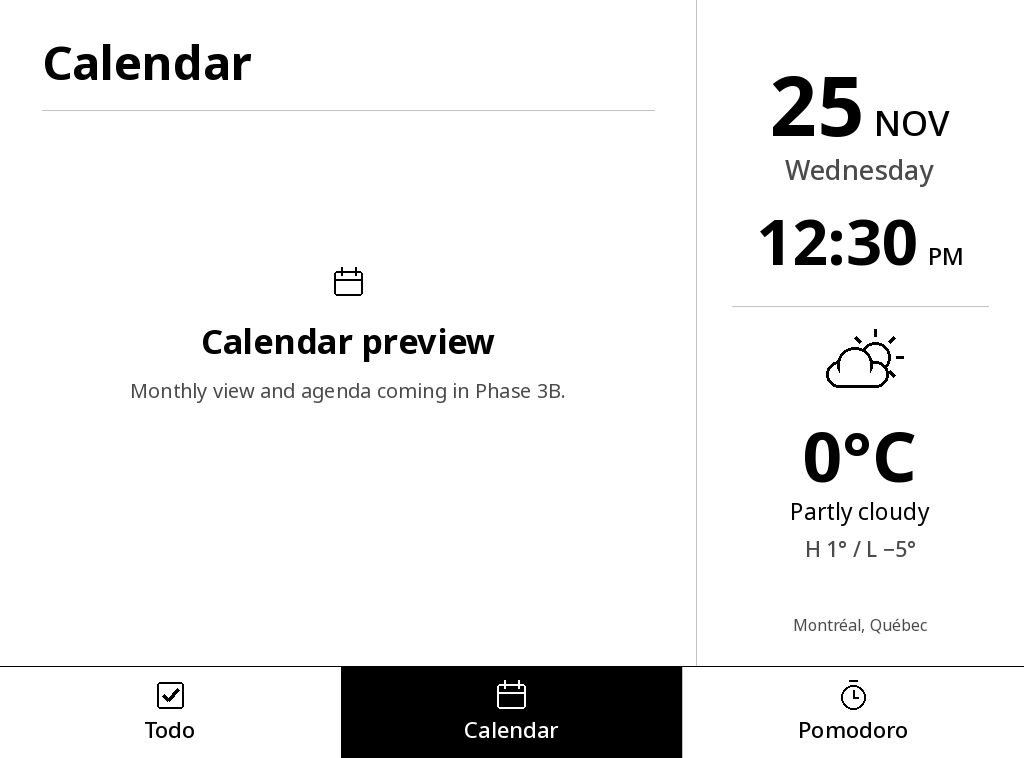
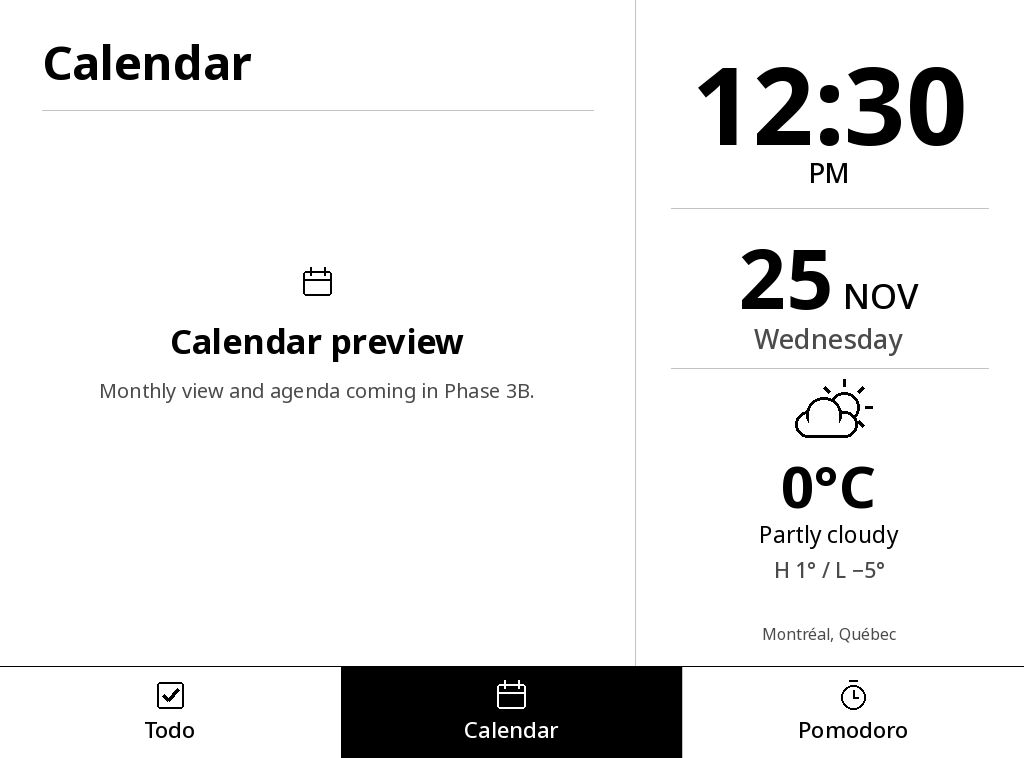
Give the landscape clock more space

diff --git a/backend/app/rendering/landscape.py b/backend/app/rendering/landscape.py
@@ -8,15 +8,15 @@ from PIL import Image, ImageDraw
 
 from app.rendering.dashboard import fit_line
 from app.rendering.landscape_layout import (
-    HEIGHT, LEFT, NAV_Y, NEXT, PANEL_X, PREVIOUS, RIGHT, TABS, TAB_LABELS, WIDTH,
-    Page, row_box, tab_box,
+    CLOCK_DIVIDER_Y, CLOCK_WIDTH, DATE_DIVIDER_Y, HEIGHT, LEFT, MAIN_CENTER, NAV_Y,
+    NEXT, PANEL_CENTER, PANEL_INSET, PANEL_TEXT_WIDTH, PANEL_X, PREVIOUS, RIGHT,
+    TABS, TAB_LABELS, TASK_TEXT_X, WEATHER_ICON_Y, WIDTH, Page, row_box, tab_box,
 )
 from app.rendering.typography import font
 from app.services.dashboard import TORONTO
 from app.services.weather import Weather
 
 INK, SECONDARY, RULE = 0, 75, 195
-CENTER = (PANEL_X + WIDTH) // 2
 
 
 @dataclass(frozen=True)
@@ -66,7 +66,7 @@ def icon(draw, name, cx, cy, ink=INK):
 
 
 def weather_icon(draw, condition: str | None):
-    x, y = CENTER, 368
+    x, y = PANEL_CENTER, WEATHER_ICON_Y
     name = (condition or "").lower()
     clear = "clear" in name
     partly = "partly" in name
@@ -112,26 +112,35 @@ def device_indicators(draw, battery, wifi):
             draw.rectangle((977, 20, 976+fill, 27), fill=INK)
 
 
+def clock_size(draw, time):
+    size = 112
+    while draw.textlength(time, font=font(size, "Bold")) > CLOCK_WIDTH:
+        size -= 1
+    return size
+
+
 def information(draw, now, location, weather):
     day, month, weekday, time, meridiem = date_clock(now)
-    inline(draw, CENTER, 136, day, month, 82, 35)
-    label(draw, (CENTER, 180), weekday, 27, "Medium", SECONDARY, "ms")
-    inline(draw, CENTER, 265, time, meridiem, 63, 24)
-    draw.line((PANEL_X+36, 306, WIDTH-36, 306), fill=RULE)
+    label(draw, (PANEL_CENTER, 145), time, clock_size(draw, time), "Bold", anchor="ms")
+    label(draw, (PANEL_CENTER, 183), meridiem, 27, "Medium", anchor="ms")
+    inline(draw, PANEL_CENTER, 309, day, month, 82, 35)
+    label(draw, (PANEL_CENTER, 349), weekday, 27, "Medium", SECONDARY, "ms")
+    for y in (CLOCK_DIVIDER_Y, DATE_DIVIDER_Y):
+        draw.line((PANEL_X + PANEL_INSET, y, WIDTH - PANEL_INSET, y), fill=RULE)
     weather_icon(draw, weather.condition if weather.temperature is not None else None)
     if weather.temperature is None:
-        label(draw, (CENTER, 457), "Weather unavailable", 24, "Medium", SECONDARY, "ms")
+        label(draw, (PANEL_CENTER, 516), "Weather unavailable", 24, "Medium", SECONDARY, "ms")
     else:
-        label(draw, (CENTER, 482), temperature(weather.temperature) + "C", 69, "Bold", anchor="ms")
-        condition = fit_line(draw, weather.condition or "Unknown", font(23), WIDTH-PANEL_X-48)
-        label(draw, (CENTER, 520), condition, 23, anchor="ms")
+        label(draw, (PANEL_CENTER, 508), temperature(weather.temperature) + "C", 58, "Bold", anchor="ms")
+        condition = fit_line(draw, weather.condition or "Unknown", font(23), PANEL_TEXT_WIDTH)
+        label(draw, (PANEL_CENTER, 543), condition, 23, anchor="ms")
         if weather.high is not None and weather.low is not None:
-            label(draw, (CENTER, 557), f"H {temperature(weather.high)} / L {temperature(weather.low)}",
+            label(draw, (PANEL_CENTER, 578), f"H {temperature(weather.high)} / L {temperature(weather.low)}",
                   21, "Medium", SECONDARY, "ms")
         if weather.status == "stale":
-            label(draw, (CENTER, 588), "Last known weather", 16, fill=SECONDARY, anchor="ms")
-    name = fit_line(draw, unicodedata.normalize("NFC", location), font(16), WIDTH-PANEL_X-48)
-    label(draw, (CENTER, 631), name, 16, fill=SECONDARY, anchor="ms")
+            label(draw, (PANEL_CENTER, 605), "Last known weather", 16, fill=SECONDARY, anchor="ms")
+    name = fit_line(draw, unicodedata.normalize("NFC", location), font(16), PANEL_TEXT_WIDTH)
+    label(draw, (PANEL_CENTER, 640), name, 16, fill=SECONDARY, anchor="ms")
 
 
 def todo(draw, tasks, page_number, page_count):
@@ -148,19 +157,19 @@ def todo(draw, tasks, page_number, page_count):
             details.append(task.priority.capitalize() + " priority")
         if task.due_date:
             details.append(f"Due {month_abbr[task.due_date.month]} {task.due_date.day}")
-        title = fit_line(draw, unicodedata.normalize("NFC", task.title), font(24, "Medium"), RIGHT-118)
+        title = fit_line(draw, unicodedata.normalize("NFC", task.title), font(24, "Medium"), RIGHT - TASK_TEXT_X)
         y = cy if details else cy + 8
-        label(draw, (118, y), title, 24, "Medium", SECONDARY if task.completed else INK)
+        label(draw, (TASK_TEXT_X, y), title, 24, "Medium", SECONDARY if task.completed else INK)
         if task.completed:
-            draw.line((118, y-8, 118+draw.textlength(title, font=font(24, "Medium")), y-8),
+            draw.line((TASK_TEXT_X, y-8, TASK_TEXT_X+draw.textlength(title, font=font(24, "Medium")), y-8),
                       fill=SECONDARY, width=2)
         if details:
-            label(draw, (118, cy+24), "  ·  ".join(details), 16, fill=SECONDARY)
+            label(draw, (TASK_TEXT_X, cy+24), "  ·  ".join(details), 16, fill=SECONDARY)
         draw.line((LEFT, box.y+box.h-1, RIGHT, box.y+box.h-1), fill=RULE)
     if not tasks:
-        label(draw, ((LEFT+RIGHT)//2, 344), "No tasks to display", 30, "Medium", anchor="ms")
+        label(draw, (MAIN_CENTER, 344), "No tasks to display", 30, "Medium", anchor="ms")
     if page_count > 1:
-        label(draw, ((LEFT+RIGHT)//2, 643), f"{page_number} of {page_count}", 18,
+        label(draw, (MAIN_CENTER, 643), f"{page_number} of {page_count}", 18,
               "Medium", SECONDARY, "ms")
         for box, enabled, text in ((PREVIOUS, page_number > 1, "‹  Previous"),
                                    (NEXT, page_number < page_count, "Next  ›")):
@@ -179,19 +188,19 @@ def render_landscape(page: Page, now: datetime, location: str, weather: Weather,
     if page == "todo":
         todo(draw, tasks or [], page_number, page_count)
     elif page == "calendar":
-        icon(draw, "calendar", 348, 282)
-        label(draw, (348, 354), "Calendar preview", 34, "Bold", anchor="ms")
-        label(draw, (348, 398), "Monthly view and agenda coming in Phase 3B.", 20,
+        icon(draw, "calendar", MAIN_CENTER, 282)
+        label(draw, (MAIN_CENTER, 354), "Calendar preview", 34, "Bold", anchor="ms")
+        label(draw, (MAIN_CENTER, 398), "Monthly view and agenda coming in Phase 3B.", 20,
               fill=SECONDARY, anchor="ms")
     else:
-        label(draw, (348, 196), "Focus session", 23, "Medium", SECONDARY, "ms")
-        label(draw, (348, 332), "25:00", 112, "Bold", anchor="ms")
-        draw.line((204, 371, 492, 371), fill=RULE, width=4)
-        draw.ellipse((200, 367, 208, 375), fill=SECONDARY)
-        for x, text in ((272, "Start"), (424, "Reset")):
+        label(draw, (MAIN_CENTER, 196), "Focus session", 23, "Medium", SECONDARY, "ms")
+        label(draw, (MAIN_CENTER, 332), "25:00", 112, "Bold", anchor="ms")
+        draw.line((MAIN_CENTER-144, 371, MAIN_CENTER+144, 371), fill=RULE, width=4)
+        draw.ellipse((MAIN_CENTER-148, 367, MAIN_CENTER-140, 375), fill=SECONDARY)
+        for x, text in ((MAIN_CENTER-76, "Start"), (MAIN_CENTER+76, "Reset")):
             draw.rounded_rectangle((x-59, 426, x+59, 479), 4, outline=RULE)
             label(draw, (x, 461), text, 22, "Medium", SECONDARY, "ms")
-        label(draw, (348, 530), "Preview · Timer controls disabled", 19, fill=SECONDARY, anchor="ms")
+        label(draw, (MAIN_CENTER, 530), "Preview · Timer controls disabled", 19, fill=SECONDARY, anchor="ms")
     information(draw, now, location, weather)
     device_indicators(draw, battery, wifi)
     for index, tab in enumerate(TABS):

diff --git a/backend/tests/test_kindle_landscape.py b/backend/tests/test_kindle_landscape.py
@@ -14,8 +14,11 @@ from app.core.config import ROOT, Settings
 from app.main import create_app
 from app.models.dashboard import Task
 from app.rendering.dashboard import fit_line
-from app.rendering.landscape import date_clock, render_landscape, temperature
-from app.rendering.landscape_layout import PAGE_SIZE, row_box, tab_box
+from app.rendering.landscape import clock_size, date_clock, render_landscape, temperature
+from app.rendering.landscape_layout import (
+    CLOCK_DIVIDER_Y, CLOCK_WIDTH, DATE_DIVIDER_Y, NAV_Y, NEXT, PAGE_SIZE, PANEL_CENTER,
+    PANEL_X, PREVIOUS, RIGHT, TASK_TEXT_X, WIDTH, row_box, tab_box,
+)
 from app.rendering.typography import font
 from app.schemas.dashboard import Preferences
 from app.services.dashboard import save_preferences
@@ -91,9 +94,9 @@ def test_unicode_long_titles_negative_zero_and_empty_weather():
         face = font(24, weight)
         assert bytes(face.getmask("é")) != bytes(face.getmask("e"))
         assert face.getname()[1] == weight
-    title = fit_line(draw, "Montréal Québec " * 28, font(24, "Medium"), 536)
+    title = fit_line(draw, "Montréal Québec " * 28, font(24, "Medium"), RIGHT - TASK_TEXT_X)
     assert title.startswith("Montréal Québec") and title.endswith("…")
-    assert draw.textlength(title, font=font(24, "Medium")) <= 536
+    assert draw.textlength(title, font=font(24, "Medium")) <= RIGHT - TASK_TEXT_X
     assert temperature(-0.1) == temperature(-0.0) == "0°"
     assert temperature(-5) == "−5°"
     empty = image(render_landscape("todo", NOW, "Montréal, Québec", UNAVAILABLE))
@@ -102,7 +105,7 @@ def test_unicode_long_titles_negative_zero_and_empty_weather():
     assert empty.mode == "L" and empty.size == (1024, 758)
     assert empty.crop((180, 318, 520, 350)).getextrema()[0] == 0
     assert empty.crop((720, 325, 1000, 615)).tobytes() != fresh.crop((720, 325, 1000, 615)).tobytes()
-    assert fresh.crop((720, 566, 1000, 600)).tobytes() != stale.crop((720, 566, 1000, 600)).tobytes()
+    assert fresh.crop((720, 585, 1000, 612)).tobytes() != stale.crop((720, 585, 1000, 612)).tobytes()
 
 
 def test_frame_png_navigation_pagination_and_completed_style(dashboard):
@@ -269,3 +272,34 @@ def test_checked_task_syncs_with_the_admin_api(dashboard):
     csrf = {"X-CSRF-Token": login.json()["data"]["csrf_token"]}
     assert dashboard.put(f"/api/v1/tasks/{row['id']}", json=payload, headers=csrf).status_code == 200
     assert tasks(frame(dashboard))[0]["completed"] is True
+
+
+def test_clock_first_panel_fits_and_matches_across_pages():
+    draw = ImageDraw.Draw(Image.new("L", (WIDTH, NAV_Y)))
+    assert 0.37 < (WIDTH - PANEL_X) / WIDTH < 0.39
+    sizes = {time: clock_size(draw, time) for time in ("9:59", "12:00")}
+    assert 100 <= sizes["12:00"] < sizes["9:59"] <= 112
+    for time, size in sizes.items():
+        bounds = draw.textbbox((PANEL_CENTER, 145), time, font=font(size, "Bold"), anchor="ms")
+        assert bounds[0] >= PANEL_CENTER - CLOCK_WIDTH // 2
+        assert bounds[2] <= PANEL_CENTER + CLOCK_WIDTH // 2
+        assert bounds[1] > 38 and bounds[3] < CLOCK_DIVIDER_Y
+    panels = [
+        image(render_landscape(page, NOW, "Montréal", UNAVAILABLE)).crop((PANEL_X, 0, WIDTH, NAV_Y))
+        for page in ("todo", "calendar", "pomodoro")
+    ]
+    assert panels[0].tobytes() == panels[1].tobytes() == panels[2].tobytes()
+    for y in (CLOCK_DIVIDER_Y, DATE_DIVIDER_Y):
+        assert panels[0].getpixel((PANEL_CENTER - PANEL_X, y)) == 195
+
+
+def test_pagination_targets_fit_reduced_main_area(dashboard):
+    for current, box, target in ((1, NEXT, 2), (2, PREVIOUS, 1)):
+        value = frame(dashboard, number=current)
+        controls = [region for region in value["regions"] if region["y"] < NAV_Y
+                    and region["action"] == "navigate"]
+        assert len(controls) == 1
+        control = controls[0]
+        assert (control["x"], control["y"], control["w"], control["h"]) == (box.x, box.y, box.w, box.h)
+        assert control["number"] == target
+        assert box.x + box.w <= RIGHT and box.y + box.h <= NAV_Y

diff --git a/backend/app/rendering/landscape_layout.py b/backend/app/rendering/landscape_layout.py
@@ -3,8 +3,16 @@ from typing import Literal
 
 Page = Literal["todo", "calendar", "pomodoro"]
 WIDTH, HEIGHT = 1024, 758
-PANEL_X, NAV_Y = 696, 666
-LEFT, RIGHT = 42, 654
+PANEL_X, NAV_Y = 635, 666
+LEFT, RIGHT = 42, PANEL_X - 42
+MAIN_CENTER = (LEFT + RIGHT) // 2
+TASK_TEXT_X = LEFT + 76
+PANEL_CENTER = (PANEL_X + WIDTH) // 2
+PANEL_INSET = 36
+PANEL_TEXT_WIDTH = WIDTH - PANEL_X - 2 * PANEL_INSET
+CLOCK_WIDTH = PANEL_TEXT_WIDTH - 40
+CLOCK_DIVIDER_Y, DATE_DIVIDER_Y = 208, 368
+WEATHER_ICON_Y = 418
 ROWS_Y, ROW_HEIGHT, PAGE_SIZE = 121, 81, 6
 TABS: tuple[Page, ...] = ("todo", "calendar", "pomodoro")
 TAB_LABELS = {"todo": "Todo", "calendar": "Calendar", "pomodoro": "Pomodoro"}
